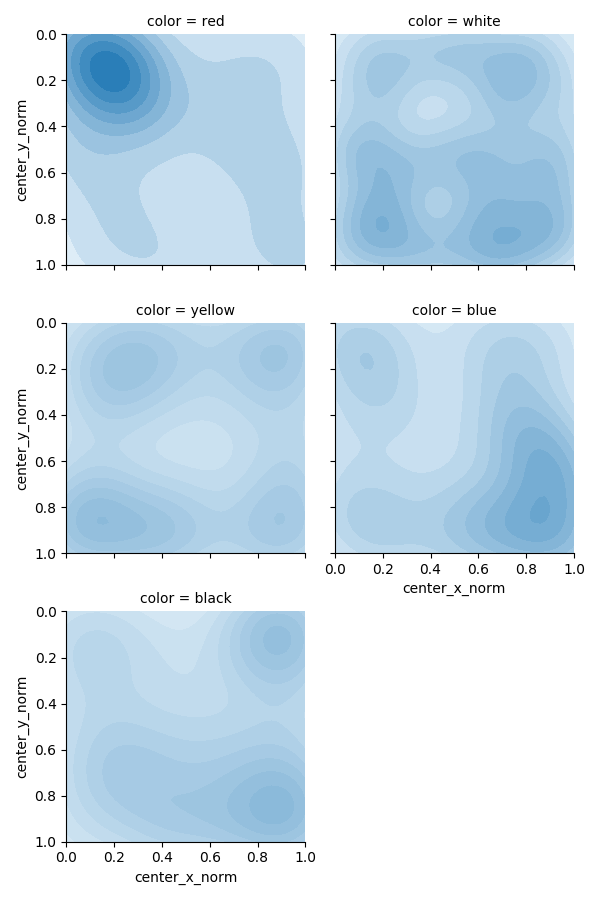
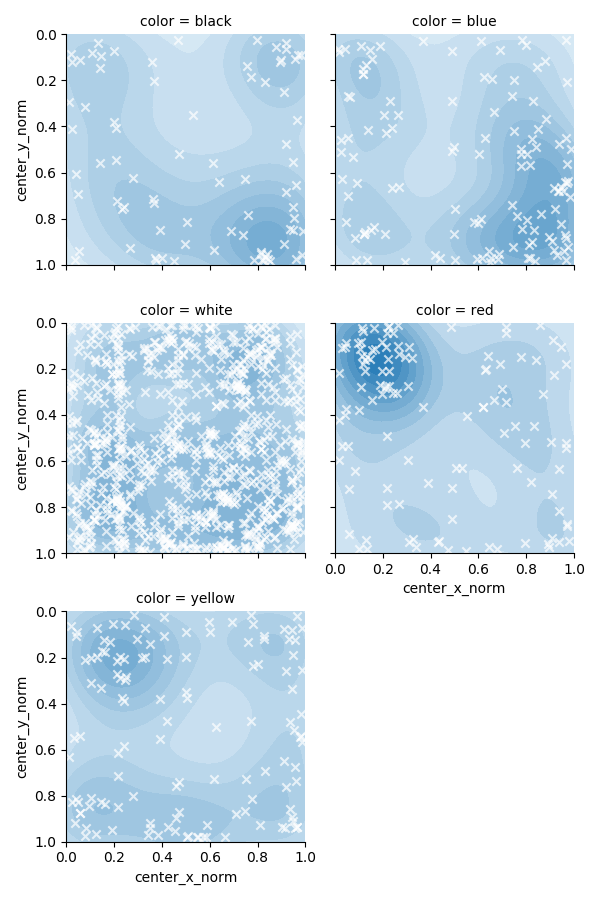
That's it

diff --git a/thesis/thesis.tex b/thesis/thesis.tex
@@ -735,15 +735,19 @@ the golden rectangle claim by Bouleau (1963) \cite{bouleau1963} and Bergamini
 (1980) \cite{bergamini1980}.
 
 \begin{figure}
-\includegraphics[width=\linewidth]{images/aspect-max-min-rects.png}
-\caption{There appears to be no difference between randomly generated rectangles and rectangles used by Mondrian.}
-\label{fig:aspect-rects}
-\end{figure}
-
-\begin{figure}
-\includegraphics[width=\linewidth]{images/longer-x-shorter.png}
-\caption{Rectangles longer side to shorter side}
-\label{fig:longer-x-shorter}
+\centering
+\begin{subfigure}{.5\textwidth}
+  \includegraphics[width=\linewidth]{images/aspect-max-min-rects.png}
+  \caption{ }
+  \label{fig:aspect-rects}
+\end{subfigure}%
+\begin{subfigure}{.5\textwidth}
+  \centering
+  \includegraphics[width=\linewidth]{images/longer-x-shorter.png}
+  \caption{ }
+  \label{fig:longer-x-shorter}
+\end{subfigure}
+\caption{There appears to be no specific ratio used preferentially by Mondrian.}
 \end{figure}
 
 

diff --git a/analyze.py b/analyze.py
@@ -188,6 +188,9 @@ for color in colors:
 
 g = sns.FacetGrid(df, col="color",legend_out=True,xlim=(0,1),ylim=(0,1),col_wrap=2)
 g.map(sns.kdeplot, "center_x_norm", "center_y_norm",shade=True,cbar=False,vmin=0,vmax=2.25)
+g.map(plt.scatter, "center_x_norm", "center_y_norm",marker='x',color='white',alpha=0.7)
+# cbar_ax = g.fig.add_axes([1.015,0.13, 0.015, 0.8])
+# plt.colorbar(cbar_ax)
 plt.gca().invert_yaxis()
 plt.savefig(out_dir + '/kernel-densities.png')
 plt.close()
